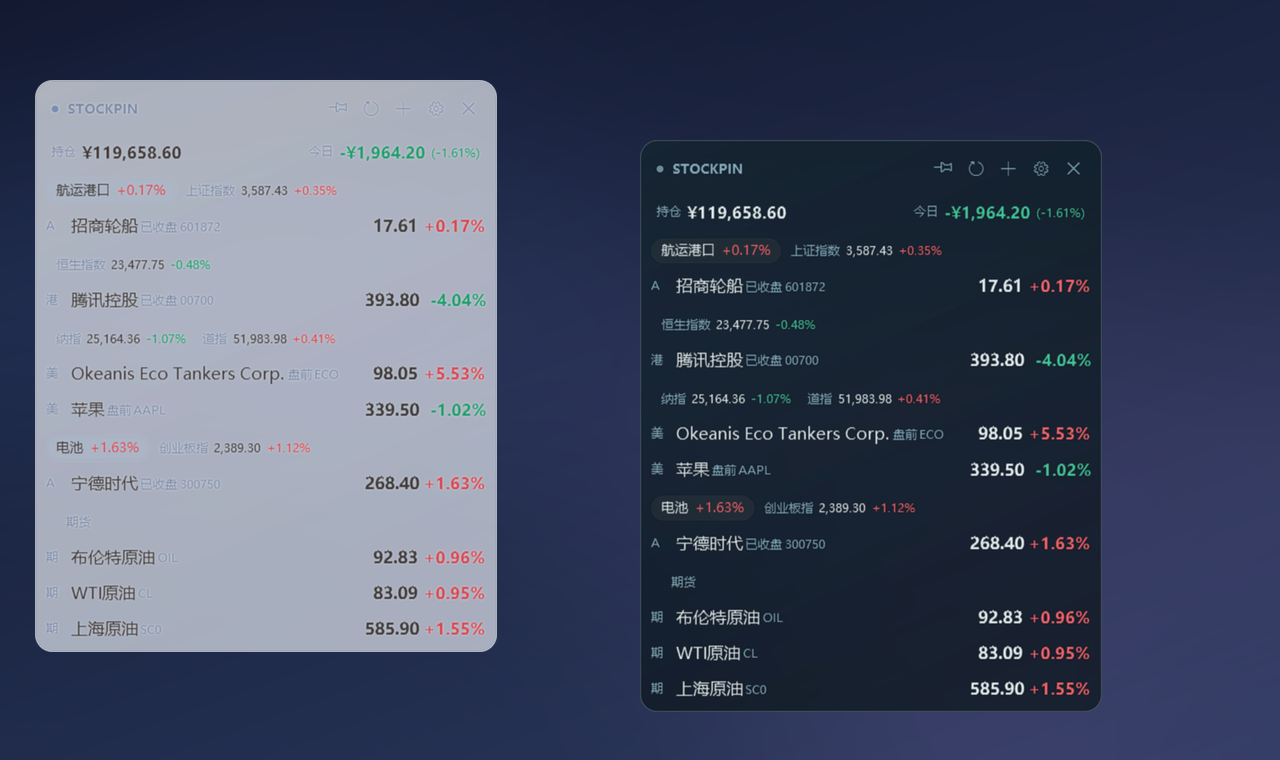
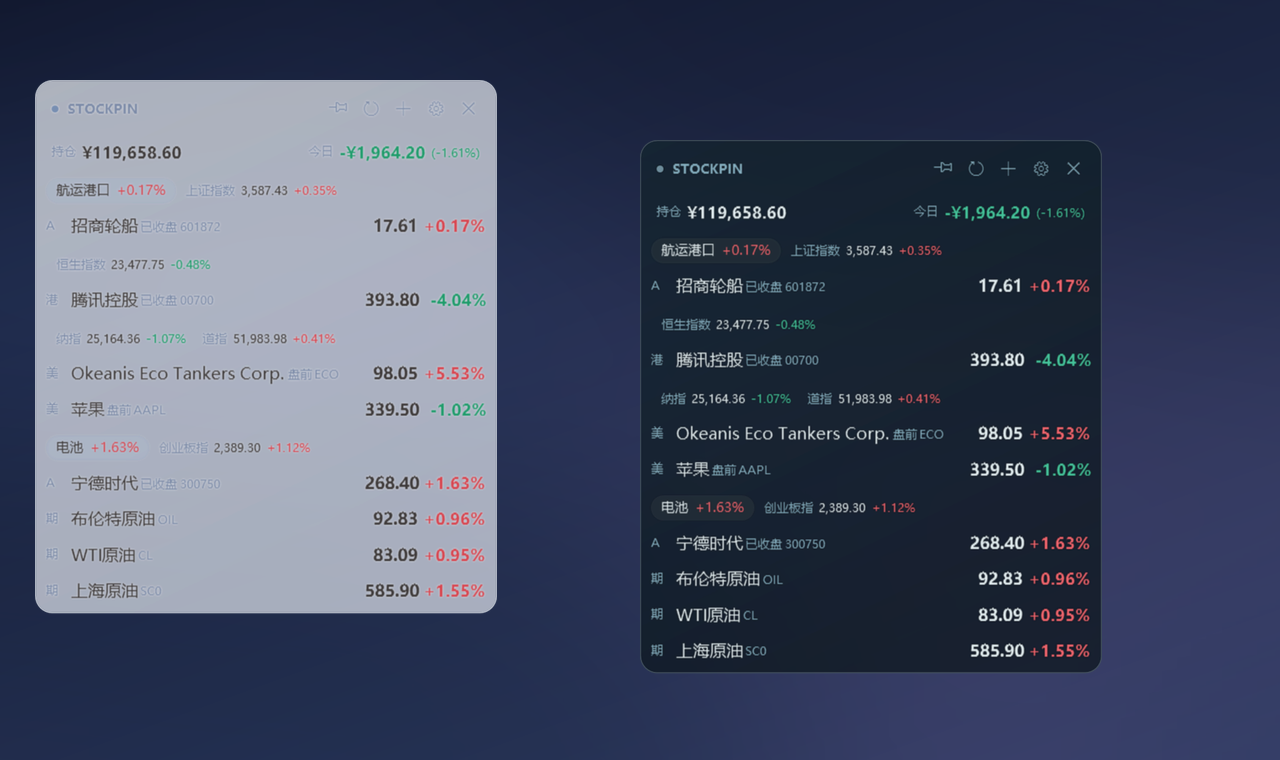
v1.11.1: drop futures group title

diff --git a/Views/MainWindow.xaml b/Views/MainWindow.xaml
@@ -287,7 +287,8 @@
                         <ItemsControl.ItemTemplate>
                             <DataTemplate>
                                 <StackPanel Margin="{Binding TopMargin}">
-                                    <StackPanel Orientation="Horizontal" Height="22" Margin="0,0,0,1">
+                                    <StackPanel Orientation="Horizontal" Height="22" Margin="0,0,0,1"
+                                                Visibility="{Binding ShowHeader, Converter={StaticResource BoolToVis}}">
                                         <Border CornerRadius="9" Background="{DynamicResource ChipBg}"
                                                 Padding="7,2" VerticalAlignment="Center"
                                                 Visibility="{Binding ShowSector, Converter={StaticResource BoolToVis}}">
@@ -331,11 +332,6 @@
                                                     </DataTemplate>
                                                 </ItemsControl.ItemTemplate>
                                             </ItemsControl>
-
-                                        <TextBlock Text="{Binding Board.Name}" FontSize="9"
-                                                   Foreground="{DynamicResource TextMuted}"
-                                                   VerticalAlignment="Center" Margin="7,0,0,0"
-                                                   Visibility="{Binding ShowTitle, Converter={StaticResource BoolToVis}}" />
                                     </StackPanel>
 
                                     <ItemsControl ItemsSource="{Binding Stocks}"

diff --git a/ViewModels/DisplayGroup.cs b/ViewModels/DisplayGroup.cs
@@ -19,8 +19,10 @@ public sealed class DisplayGroup
     public bool ShowBoard { get; }
     public bool ShowSector => Sector != null;
 
-    /// <summary>Boards without indices (futures) show their name as the header.</summary>
-    public bool ShowTitle => ShowBoard && Board.Indices.Count == 0;
+    /// <summary>A group has a header only when it has a sector pill or board indices.</summary>
+    public bool ShowHeader => ShowSector || (ShowBoard && Board.Indices.Count > 0);
 
-    public Thickness TopMargin => ShowBoard ? new Thickness(0, 4, 0, 0) : new Thickness(0, 1, 0, 0);
+    public Thickness TopMargin => !ShowHeader
+        ? new Thickness(0, 0, 0, 0)
+        : ShowBoard ? new Thickness(0, 4, 0, 0) : new Thickness(0, 1, 0, 0);
 }

diff --git a/README.md b/README.md
@@ -1,4 +1,4 @@
-# StockPin
+# StockPin
 
 **轻量、半透明、始终置顶的桌面行情小工具** · A股 / 港股 / 美股 / 原油 · Windows 10 / 11
 
@@ -6,7 +6,7 @@
 [![.NET](https://img.shields.io/badge/.NET-8.0-5b6ea8?style=flat-square)](https://dotnet.microsoft.com/)
 [![License](https://img.shields.io/badge/license-MIT-5b6ea8?style=flat-square)](LICENSE)
 
-![StockPin](docs/hero.png?v=1.11.0)
+![StockPin](docs/hero.png?v=1.11.1)
 
 ## 功能
 
@@ -50,7 +50,7 @@
 5. **设置 → 自选股票**：输入代码或名称添加；填好数量和成本价后，面板会立即更新模拟持仓。
 6. 点 **×** 只是收进托盘；托盘图标右键可再次显示面板或退出。
 
-![设置](docs/settings.png?v=1.11.0)
+![设置](docs/settings.png?v=1.11.1)
 
 ## 主题
 
@@ -58,7 +58,7 @@
 
 > 面板背景强度默认 70%：既能透出桌面，又能保证在游戏、视频等复杂画面上看清。喜欢纯文字可以把「外观 → 背景强度」拉到 0%。
 
-![主题](docs/appearance.png?v=1.11.0)
+![主题](docs/appearance.png?v=1.11.1)
 
 ## 数据来源
 
